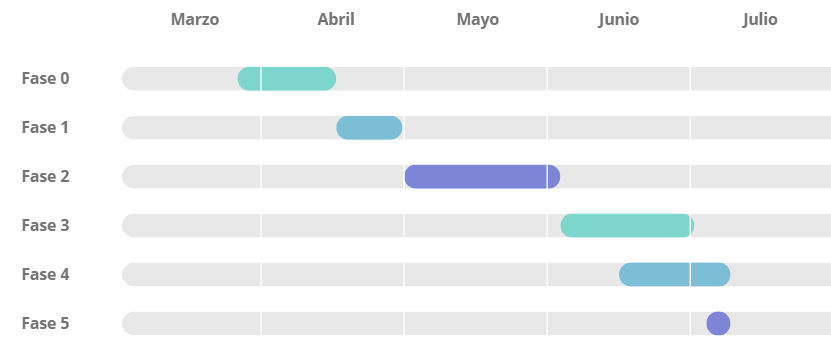
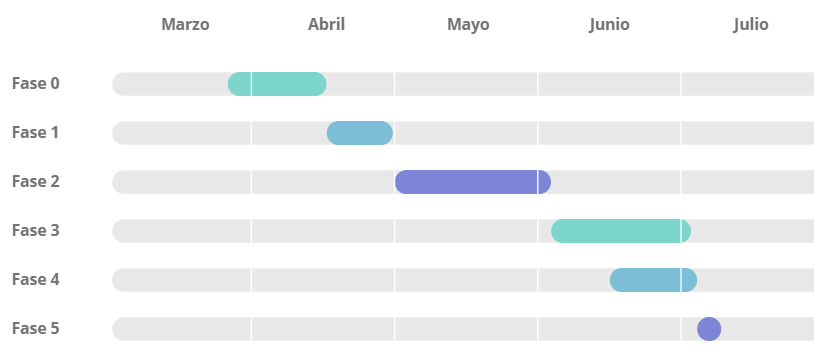
Documentation update
I have update the methodology dates.

diff --git a/docs/methodology.md b/docs/methodology.md
@@ -24,9 +24,9 @@ Las fases del 2º TFG se planificaron de la siguiente manera:
 
 - **Fase 9:** Despliegue en AWS simple (Finalización: 4 de junio)
 
-- **Fase 10:** Despliegue en AWS avanzado (Finalización: X de julio)
+- **Fase 10:** Despliegue en AWS avanzado (Finalización: 3 de julio)
 
-- **Fase 11:** Memoria 2º TFG (Finalización: X de julio)
+- **Fase 11:** Memoria 2º TFG (Finalización: 4 de julio)
 
 - **Fase 12:** Presentación y defensa 2º TFG (Finalización: 8 de julio)
 